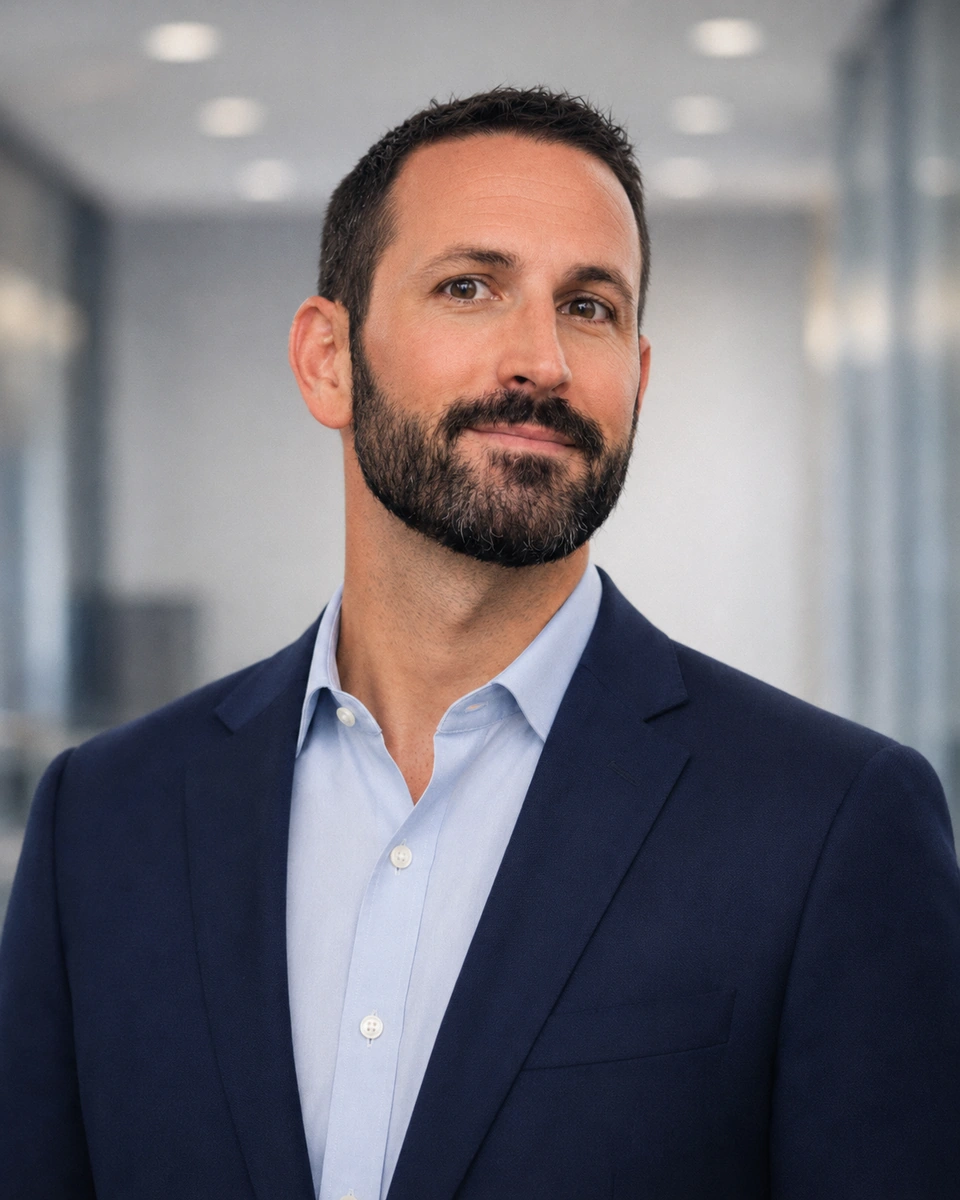
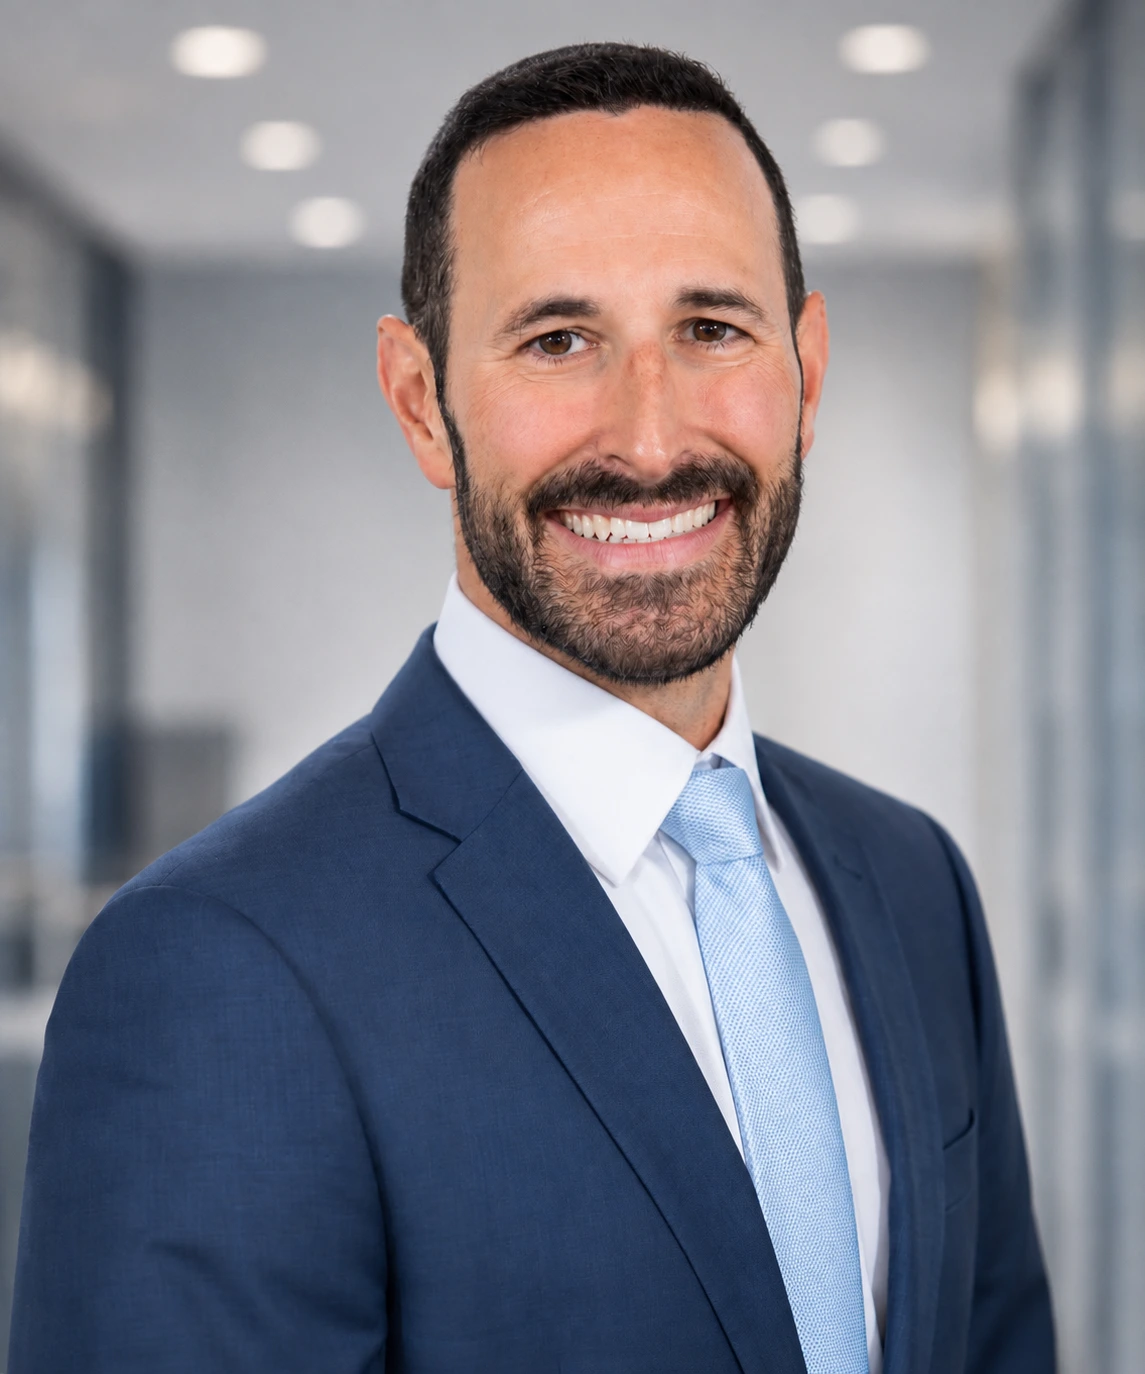
Add files via upload

diff --git a/strategy-consultation.html b/strategy-consultation.html
@@ -202,7 +202,7 @@
               <li>Upcoming decisions where timing matters</li>
             </ul>
             <div class="funnel-hero-intake__advisor">
-              <img src="images/generated/team/jay-guttmann-executive-portrait.webp" width="960" height="1200" alt="Jay H. Guttmann, CPA">
+              <img src="images/generated/team/jay-guttmann-headshot-square.webp" width="1254" height="1254" alt="Jay H. Guttmann, CPA">
               <span>CPA-led review. No guaranteed tax savings or specific outcome.</span>
             </div>
           </div>
@@ -218,7 +218,7 @@
           <span>Serving business and individual clients with accounting, tax, and advisory needs.</span>
         </div>
         <div>
-          <img src="images/generated/team/jay-guttmann-executive-portrait.webp" width="960" height="1200" loading="lazy" decoding="async" alt="Jay H. Guttmann, CPA">
+          <img src="images/generated/team/jay-guttmann-headshot-square.webp" width="1254" height="1254" loading="lazy" decoding="async" alt="Jay H. Guttmann, CPA">
           <strong>Jay H. Guttmann, CPA</strong>
           <span>Existing SRG profile notes CPA licensure in New York and New Jersey.</span>
         </div>
@@ -288,7 +288,7 @@
           </div>
           <div class="funnel-advisor-cards" aria-label="SRG Advisors team">
             <article>
-              <img src="images/generated/team/jay-guttmann-executive-portrait.webp" width="960" height="1200" loading="lazy" decoding="async" alt="Jay H. Guttmann, CPA, Partner">
+              <img src="images/generated/team/jay-guttmann-executive-portrait.webp" width="1145" height="1374" loading="lazy" decoding="async" alt="Jay H. Guttmann, CPA, Partner">
               <div class="funnel-advisor-card__body">
                 <strong>Jay H. Guttmann</strong>
                 <span>CPA, Partner</span>
